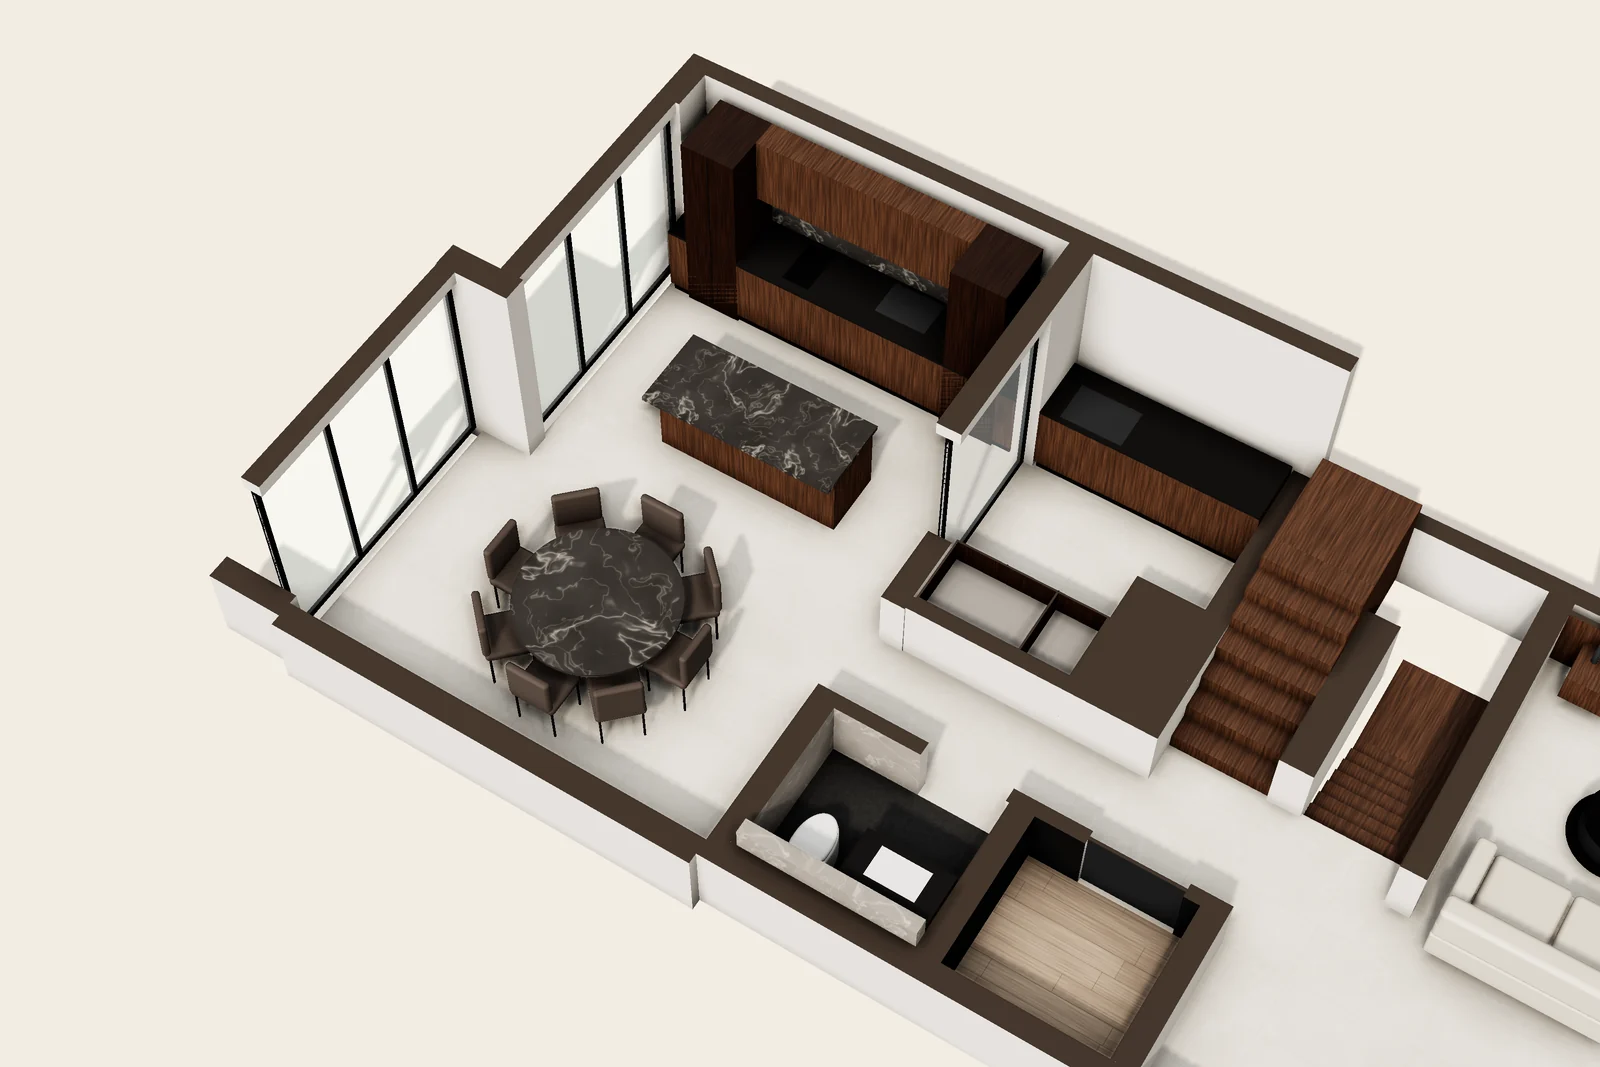
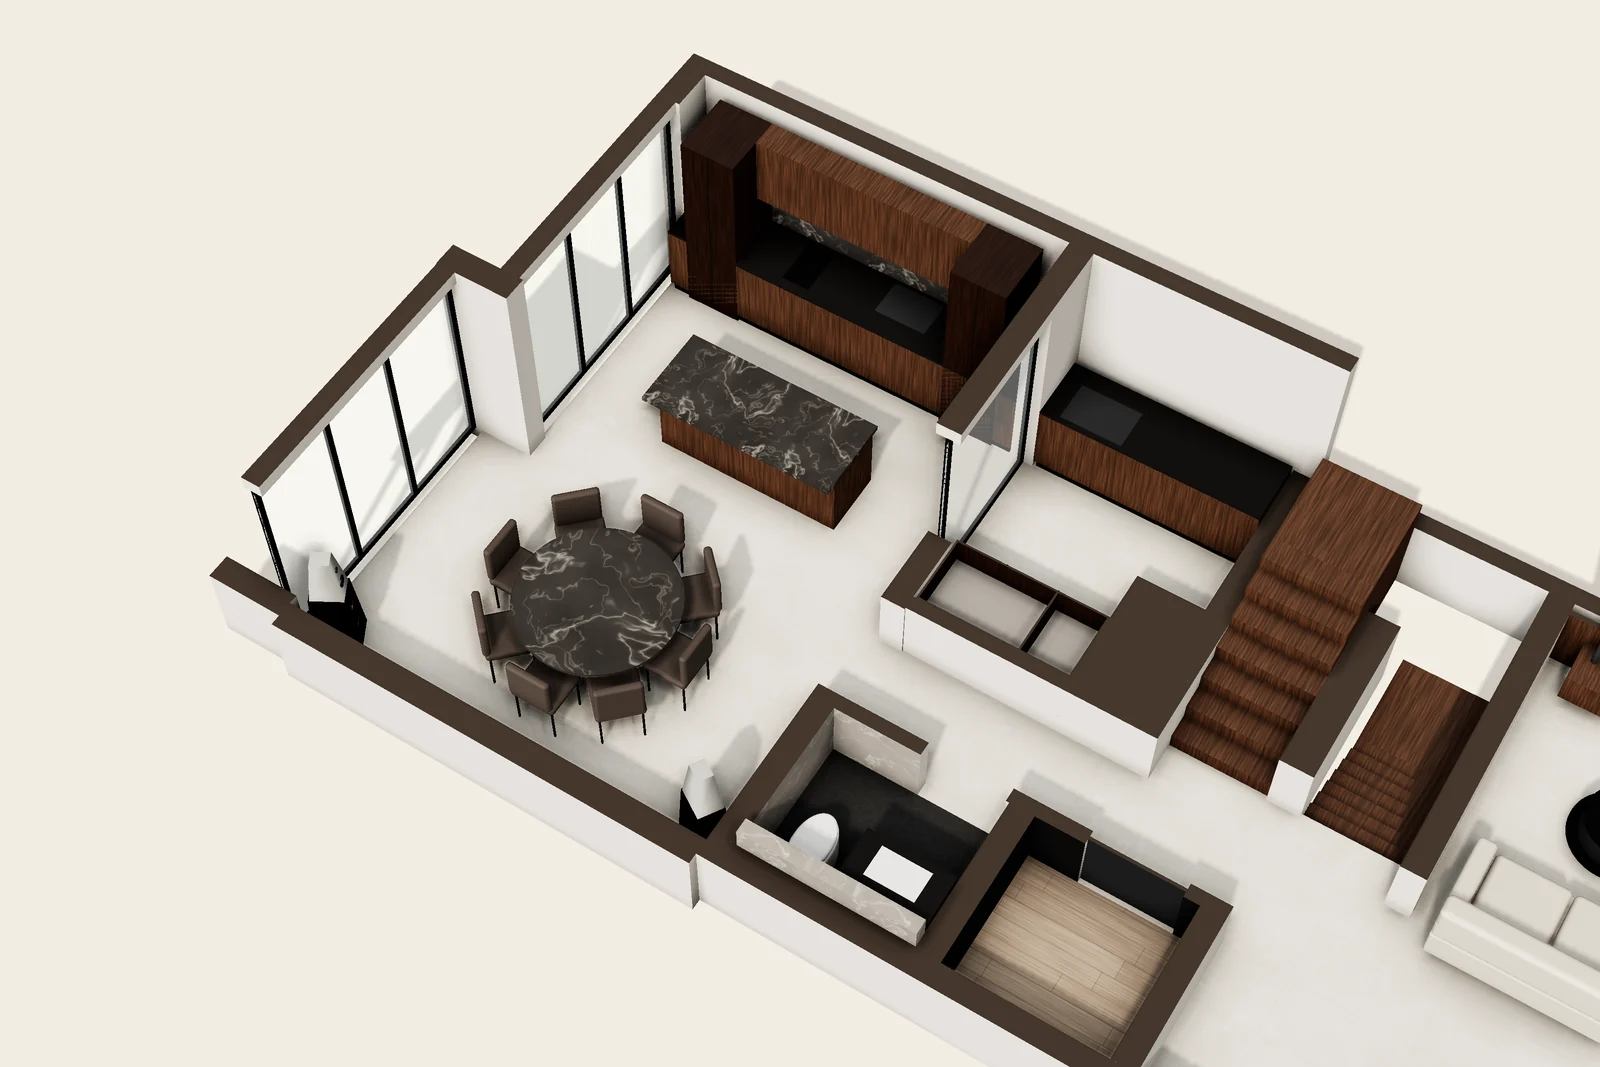
3D: the dining room's two tall speakers
As in the dining photos: a tall two-part speaker (black bass cabinet,
silver head) at each end of the south wall, turned towards the table.
The painting is left out for now, at the owner's request.

Changed region(s): [[0.1562, 0.4948, 0.25, 0.6186], [0.4062, 0.6804, 0.5, 0.7732]]

diff --git a/assets/js/rooms3d.js b/assets/js/rooms3d.js
@@ -195,6 +195,7 @@ export function materials() {
     paving: std({ map: tex.paving, roughness: 0.8 }),
     carPaint: std({ color: 0x3b4044, roughness: 0.25, metalness: 0.6 }),
     appliance: std({ color: 0x2c2e31, roughness: 0.35, metalness: 0.45 }),
+    satinSilver: std({ color: 0xcfcfcb, roughness: 0.45, metalness: 0.25 }),
     display: new THREE.MeshStandardMaterial({ color: 0x9fd7ff, emissive: 0x6fbfff, emissiveIntensity: 1.2 }),
     interior: std({ color: 0x8f8b86, roughness: 0.8 }),
     ceiling: std({ color: 0xf2efea, roughness: 0.95, emissive: 0xf2efea, emissiveIntensity: 0.35 }),
@@ -573,6 +574,28 @@ export class Builder {
     this.box(...s(0, 0, 0.07, 1), 0.4, 0.64, "sofa", { round: 0.05 });
     this.box(...s(0.93, 0, 1, 1), 0.4, 0.64, "sofa", { round: 0.05 });
     for (let i = 0; i < 3; i++) this.box(...s(0.07 + i * 0.86 / 3 + 0.005, 0.24, 0.07 + (i + 1) * 0.86 / 3 - 0.005, 0.98), 0.4, 0.55, "sofa", { round: 0.06 });
+  }
+
+  // A tall two-part hi-fi speaker: tapered black bass cabinet, tapered silver head with the
+  // drivers, turned to face `deg` (as in the dining room photos).
+  hifiSpeaker(cx, cy, deg) {
+    this.solid(cx - 22, cy - 22, cx + 22, cy + 22);
+    const part = this.piece(cx, cy, deg);
+    // a frustum with a rectangular section: w (across) tapering from w0 to w1, depth = w * ratio
+    const frustum = (w0, w1, ratio, h, y, mat) => {
+      const geo = new THREE.CylinderGeometry(w1 * Math.SQRT1_2, w0 * Math.SQRT1_2, h, 4, 1);
+      geo.rotateY(Math.PI / 4);
+      geo.scale(1, 1, ratio);
+      part(geo, mat, 0, y + h / 2, 0);
+      return (t) => -((w0 + (w1 - w0) * t) * ratio) / 2 - 0.006;   // front face at height fraction t
+    };
+    const driver = (r, y, z) => part(new THREE.CylinderGeometry(r, r, 0.012, 32), "black", 0, y, z).rotation.x = Math.PI / 2;
+    const base = frustum(0.34, 0.27, 1.3, 0.78, 0, "tv");
+    const head = frustum(0.26, 0.15, 1.25, 0.52, 0.78, "satinSilver");
+    driver(0.085, 0.24, base(0.31));
+    driver(0.085, 0.52, base(0.67));
+    driver(0.06, 0.94, head(0.31));
+    driver(0.028, 1.12, head(0.65));
   }
 
   // A stacked washer-dryer (washer below, dryer above, controls between), doors facing `front`.
@@ -1078,8 +1101,11 @@ function floor2(b) {
   b.box(762, 81, 840, 134, 0.86, 0.902, "steel");
   b.wardrobe(742, 330, 933, 420, "n", 2.3);
 
-  // dining: round table for eight, the chairs pushed in, each facing the table
+  // dining: round table for eight, the chairs pushed in, each facing the table; a tall speaker at
+  // each end of the south wall, turned towards the table
   b.roundTable(450, 606, 95);
+  b.hifiSpeaker(682, 750, 302);
+  b.hifiSpeaker(196, 752, 60);
   for (let i = 0; i < 8; i++) {
     const a = i * Math.PI / 4;
     b.chair(450 + Math.cos(a) * 102, 606 + Math.sin(a) * 102, i * 45 - 90);
